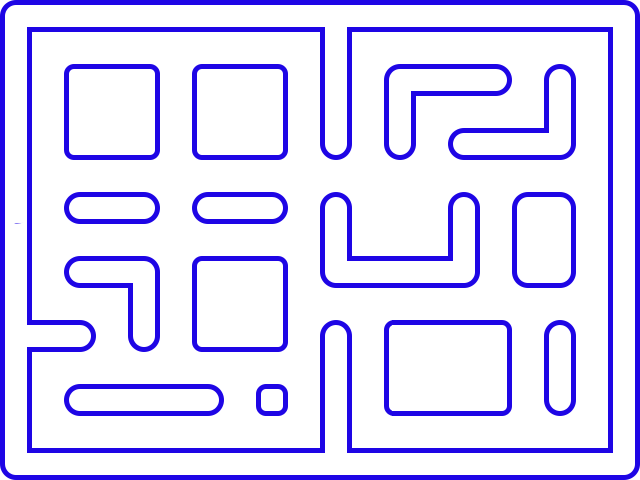
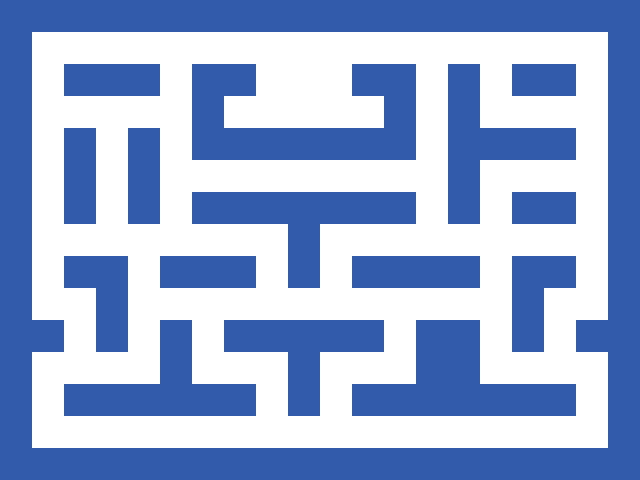
Add new food and change map, update animation for player

diff --git a/src/com/vietanh/pacman/models/Player.java b/src/com/vietanh/pacman/models/Player.java
@@ -1,9 +1,11 @@
 package com.vietanh.pacman.models;
 
-import java.awt.Color;
 import java.awt.Graphics;
 import java.awt.Rectangle;
 import java.awt.image.BufferedImage;
+import java.io.File;
+
+import javax.imageio.ImageIO;
 
 import com.vietanh.pacman.ui.PacmanUI;
 
@@ -14,11 +16,46 @@ public class Player extends Rectangle {
 	 */
 	private static final long serialVersionUID = 1L;
 
-	public boolean up, down, left, right;
-	private int speed = 4;
-
+	public boolean up=true, down, left, right;
+	private int speed = 2;
+	private BufferedImage img[];
+	private BufferedImage imgLeft[];
+	private BufferedImage imgDown[];
+	private BufferedImage imgUp[];
+	
 	public Player(int x, int y) {
 		setBounds(x, y, 32, 32);
+		playerImageLoader();
+	
+	}
+
+	public void playerImageLoader() {
+		try {
+			if (img == null) {
+				img = new BufferedImage[30];
+				imgLeft = new BufferedImage[30];
+				imgDown = new BufferedImage[30];
+				imgUp = new BufferedImage[30];
+			}
+			int temp = 0;
+			BufferedImage playerImg = ImageIO.read(new File("res/player.png"));
+			BufferedImage playerLeftImg = ImageIO.read(new File("res/player_left.png"));
+			BufferedImage playerDownImg = ImageIO.read(new File("res/player_down.png"));
+			BufferedImage playerUpImg = ImageIO.read(new File("res/player_up.png"));
+			
+			for (int i = 0; i < img.length; i++) {
+				if(i%10 == 0&& i != 0) {
+					temp += 1;
+				}
+				img[i] = playerImg.getSubimage(temp * 32, 0, 32, 32);
+				imgLeft[i] = playerLeftImg.getSubimage(temp * 32, 0, 32, 32);
+				imgDown[i] = playerDownImg.getSubimage(temp * 32, 0, 32, 32);
+				imgUp[i] = playerUpImg.getSubimage(temp * 32, 0, 32, 32);
+			}
+		} catch (Exception ex) {
+			ex.printStackTrace();
+		}
+
 	}
 
 	public boolean isTransparent(int x, int y, BufferedImage img) {
@@ -46,9 +83,7 @@ public class Player extends Rectangle {
 		for (int xx = 0; xx < level.titles.length; xx++) {
 			for (int yy = 0; yy < level.titles[0].length; yy++) {
 				if (!isTransparentFull(level.titles[xx][yy])) {
-
 					if (bounds.intersects(new Rectangle(xx * 32, yy * 32, 32, 32))) {
-
 						return false;
 					}
 				}
@@ -57,8 +92,24 @@ public class Player extends Rectangle {
 		return true;
 	}
 
+	private boolean canEatFood() {
+		Rectangle bounds = new Rectangle(x, y, width, height);
+		Level level = PacmanUI.level;
+		for (int xx = 0; xx < level.titles.length; xx++) {
+			for (int yy = 0; yy < level.titles[0].length; yy++) {
+				if (level.foods[xx][yy] != null) {
+					if (bounds.intersects(level.foods[xx][yy])) {
+						level.foods[xx][yy] = null;
+						return true;
+					}
+				}
+			}
+		}
+		return false;
+	}
+
 	public void tick() {
-		if (right && canMove(x + speed, y)) 
+		if (right && canMove(x + speed, y))
 			x += speed;
 		if (left && canMove(x - speed, y))
 			x -= speed;
@@ -66,21 +117,23 @@ public class Player extends Rectangle {
 			y += speed;
 		if (up && canMove(x, y - speed))
 			y -= speed;
-		if (x < -32) {
-			x = 640;
-			return;
-		}
-		
-		if(x > 672) {
-			x = 0;
-			return;
-		}
-			
+		canEatFood();
 	}
 
-	public void render(Graphics g) {
-		g.setColor(Color.YELLOW);
-		g.fillRect(x, y, width, height);
+	public void render(Graphics g,int i) {
+		if(right) {
+			g.drawImage(img[i], x, y, null);	
+		}
+		if(left) {
+			g.drawImage(imgLeft[i], x, y, null);	
+		}
+		if(down) {
+			g.drawImage(imgDown[i], x, y, null);	
+		}
+		if(up) {
+			g.drawImage(imgUp[i], x, y, null);	
+		}
+		
 	}
 
 }

diff --git a/src/com/vietanh/pacman/ui/PacmanUI.java b/src/com/vietanh/pacman/ui/PacmanUI.java
@@ -3,6 +3,7 @@ package com.vietanh.pacman.ui;
 import java.awt.Canvas;
 import java.awt.Color;
 import java.awt.Dimension;
+import java.awt.Font;
 import java.awt.Graphics;
 import java.awt.event.KeyEvent;
 import java.awt.event.KeyListener;
@@ -24,14 +25,15 @@ public class PacmanUI extends Canvas implements Runnable, KeyListener {
 	public static Player player;
 	private boolean isRunning = false;
 	public static Level level;
-	
+	private String fpsString = "0";
+	private int index = 59;
 	public PacmanUI() {
 		Dimension dimension = new Dimension(CommonConst.FRAME_WIDTH, CommonConst.FRAME_HEIGHT);
 		setPreferredSize(dimension);
 		setMaximumSize(dimension);
 		setMinimumSize(dimension);
 		addKeyListener(this);
-		player = new Player(32*9, 7*32);
+		player = new Player(32*9, 9*32);
 		level = new Level("res/map.png");
 	}
 
@@ -57,7 +59,7 @@ public class PacmanUI extends Canvas implements Runnable, KeyListener {
 	private void tick() {
 		player.tick();
 	}
-
+	
 	private void render() {
 		BufferStrategy bs = getBufferStrategy();
 		if (bs == null) {
@@ -68,8 +70,17 @@ public class PacmanUI extends Canvas implements Runnable, KeyListener {
 
 		g.setColor(Color.black);
 		g.fillRect(0, 0, CommonConst.FRAME_WIDTH, CommonConst.FRAME_HEIGHT);
-		player.render(g);
+		index ++;
+		if(index > 29) {
+			index = 0;
+		}
+		
+		
 		level.render(g);
+		player.render(g,index);
+		g.setFont(new Font("Arial" , Font.ITALIC, 21));
+		g.setColor(Color.GREEN);
+		g.drawString(fpsString, 0, 21);
 		g.dispose();
 		bs.show();
 	}
@@ -97,7 +108,7 @@ public class PacmanUI extends Canvas implements Runnable, KeyListener {
 			}
 
 			if (System.currentTimeMillis() - timer >= 1000) {
-				System.out.println(fps);
+				this.fpsString = fps + " fps";
 				fps = 0;
 				timer += 1000;
 			}
@@ -157,14 +168,14 @@ public class PacmanUI extends Canvas implements Runnable, KeyListener {
 
 	@Override
 	public void keyReleased(KeyEvent e) {
-		if (e.getKeyCode() == KeyEvent.VK_UP)
-			player.up = false;
-		if (e.getKeyCode() == KeyEvent.VK_DOWN)
-			player.down = false;
-		if (e.getKeyCode() == KeyEvent.VK_LEFT)
-			player.left = false;
-		if (e.getKeyCode() == KeyEvent.VK_RIGHT)
-			player.right = false;
+//		if (e.getKeyCode() == KeyEvent.VK_UP)
+//			player.up = false;
+//		if (e.getKeyCode() == KeyEvent.VK_DOWN)
+//			player.down = false;
+//		if (e.getKeyCode() == KeyEvent.VK_LEFT)
+//			player.left = false;
+//		if (e.getKeyCode() == KeyEvent.VK_RIGHT)
+//			player.right = false;
 
 	}
 

diff --git a/src/com/vietanh/pacman/models/Level.java b/src/com/vietanh/pacman/models/Level.java
@@ -11,7 +11,7 @@ public class Level {
 	public int height;
 
 	public BufferedImage[][] titles;
-	public int[][] maps;
+	public Food[][] foods;
 
 	public boolean isTransparent(int x, int y, BufferedImage img) {
 		int pixel = img.getRGB(x, y);
@@ -19,6 +19,7 @@ public class Level {
 			return true;
 		}
 		return false;
+
 	}
 
 	public boolean isTransparentFull(BufferedImage img) {
@@ -35,18 +36,24 @@ public class Level {
 	public Level(String path) {
 		try {
 			BufferedImage map = ImageIO.read(new File(path));
+
+			BufferedImage foodImage = ImageIO.read(new File("res/food.png"));
 			width = map.getWidth();
 			height = map.getHeight();
 			int cols = 20;
 			int rows = 15;
 			titles = new BufferedImage[cols][rows];
-			maps = new int[cols][rows];
-
+			foods = new Food[cols][rows];
 			for (int xx = 0; xx < cols; xx++) {
 				for (int yy = 0; yy < rows; yy++) {
-
 					titles[xx][yy] = map.getSubimage(xx * 32, yy * 32, 32, 32);
-
+					if (isTransparentFull(titles[xx][yy])) {
+						if ((xx == 9 && yy == 9) || (xx >= 7 && xx <= 11 && yy >= 0 && yy <= 3) ) {
+							
+						}else {
+							foods[xx][yy] = new Food(xx * 32, yy * 32, foodImage);
+						}
+					}
 				}
 			}
 
@@ -59,6 +66,9 @@ public class Level {
 		for (int x = 0; x < 20; x++) {
 			for (int y = 0; y < 15; y++) {
 				g.drawImage(titles[x][y], x * 32, y * 32, null);
+				if (foods[x][y] != null) {
+					foods[x][y].render(g);
+				}
 			}
 		}
 	}

diff --git a/src/com/vietanh/pacman/models/Food.java b/src/com/vietanh/pacman/models/Food.java
@@ -1,0 +1,24 @@
+package com.vietanh.pacman.models;
+
+import java.awt.Graphics;
+import java.awt.Rectangle;
+import java.awt.image.BufferedImage;
+
+public class Food extends Rectangle{
+	
+	/**
+	 * 
+	 */
+	private static final long serialVersionUID = 1L;
+	private BufferedImage img;
+	public Food(int x,int y,BufferedImage img) {
+		setBounds(x, y, 32, 32);
+		this.img = img;
+	}
+	
+	public void render(Graphics g) {
+		g.drawImage(img, x, y, null);
+		
+	}
+	
+}
